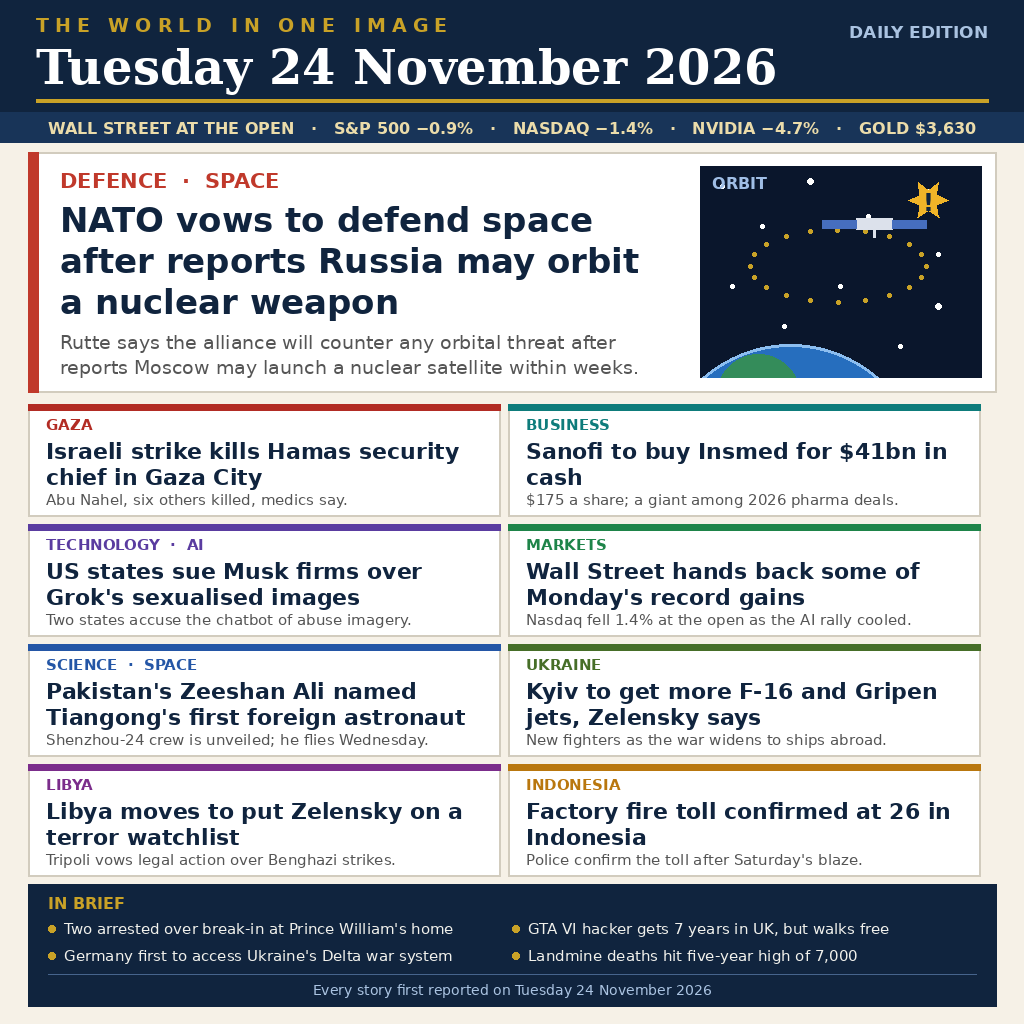
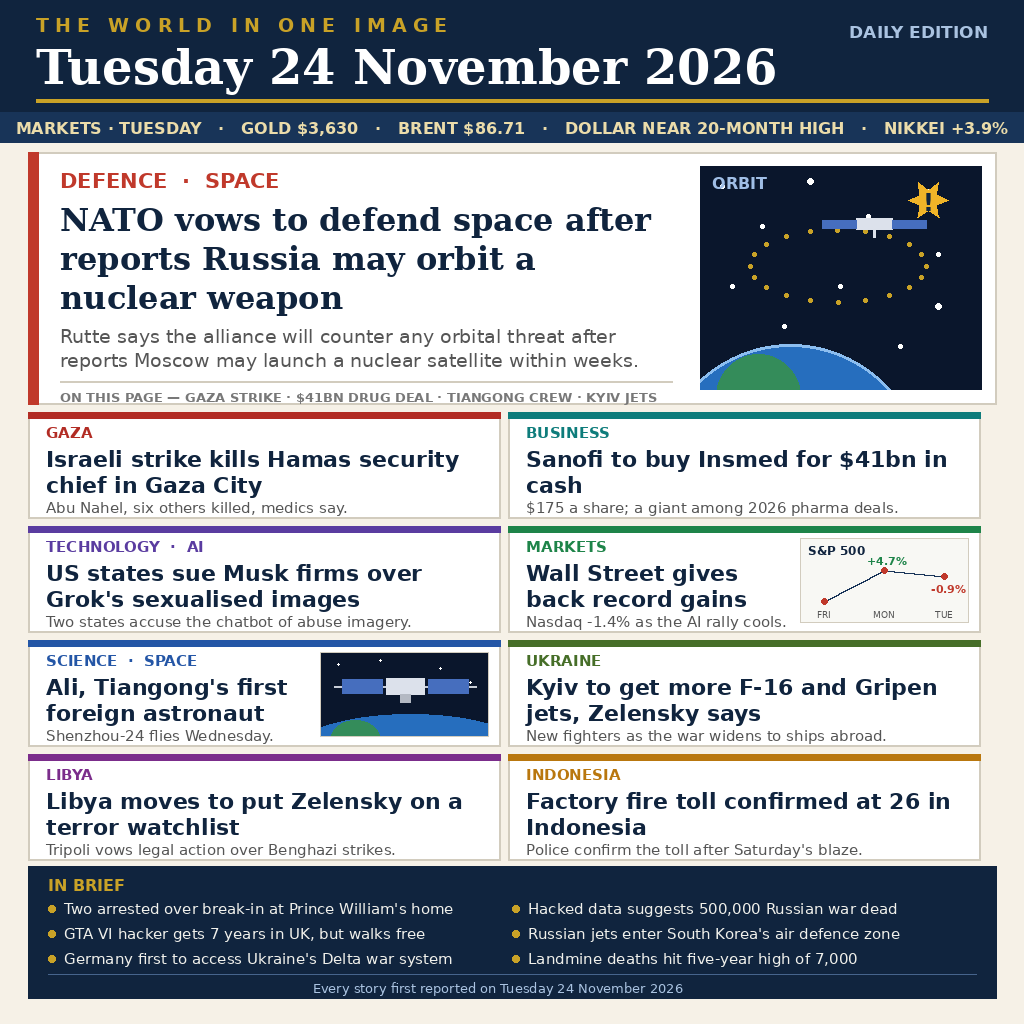
v6: final edition

diff --git a/README.md b/README.md
@@ -4,9 +4,9 @@
 [![rank](https://make.fun/badge/news-image-20261124/weifu1997/news-image-20261124/rank.svg)](https://make.fun/bounty/news-image-20261124/leaderboard?utm_source=github&utm_medium=readme&utm_campaign=news-image-20261124)
 [![reward](https://make.fun/badge/news-image-20261124/weifu1997/news-image-20261124/reward.svg)](https://make.fun/bounty/news-image-20261124?utm_source=github&utm_medium=readme&utm_campaign=news-image-20261124)
 
-A one-page newspaper front page that sums up Tuesday 24 November 2026. The second edition (v2) carries thirteen items — a lead, eight stories and four briefs — each first reported that day: NATO vows to defend space after reports Russia may orbit a nuclear weapon; an Israeli strike kills Hamas's security chief in Gaza City; Sanofi agrees to buy Insmed for $41bn; US states sue Musk's firms over Grok's sexualised images; Wall Street hands back some of Monday's record gains; Pakistan's Zeeshan Ali is named the first foreign astronaut to visit China's Tiangong station; Kyiv lines up more F-16 and Gripen jets; Libya moves to place Zelensky on a terrorism watchlist; and Indonesia's factory-fire toll is confirmed at 26 — plus briefs on the break-in at Prince William's home, the GTA VI hacker's sentence, Germany's access to Ukraine's Delta system, and landmine deaths hitting a five-year high.
+A one-page newspaper front page that sums up Tuesday 24 November 2026. The final edition carries fifteen items — a lead, eight stories and six briefs — each first reported that day: NATO vows to defend space after reports Russia may orbit a nuclear weapon; an Israeli strike kills Hamas's security chief in Gaza City; Sanofi agrees to buy Insmed for $41bn; US states sue Musk's firms over Grok's sexualised images; Wall Street gives back some of Monday's record gains (with a chart of the S&P 500's three sessions); Pakistan's Zeeshan Ali is named the first foreign astronaut to visit China's Tiangong station; Kyiv lines up more F-16 and Gripen jets; Libya moves to place Zelensky on a terrorism watchlist; and Indonesia's factory-fire toll is confirmed at 26 — plus briefs on the break-in at Prince William's home, hacked data suggesting 500,000 Russian war dead, the GTA VI hacker's sentence, Russian jets entering South Korea's air defence zone, Germany's access to Ukraine's Delta system, and landmine deaths hitting a five-year high. A markets ticker runs under the masthead.
 
-The page is drawn once, at build time, by `render2.py` (Python 3 + Pillow, run locally — it is a build tool, not part of the entry program) and shipped as `entry.png`. The entry program itself is a few lines of Node that copy the image to `/output/entry.png`, so both of the grader's runs write identical bytes (the render is deterministic: two runs, one sha256).
+The page is drawn once, at build time, by `render6.py` (Python 3 + Pillow, run locally — it is a build tool, not part of the entry program) and shipped as `entry.png`. The entry program itself is a few lines of Node that copy the image to `/output/entry.png`, so both of the grader's runs write identical bytes (the render is deterministic: two runs, one sha256).
 
 Every story on the page was checked against reports first published on 24 November 2026: several plausible-looking front-page items were left out after checking because they turned out to be 22–23 November news (the Nvidia chief executive's reinstatement, the Democrats' House result, the ICJ's Myanmar ruling, the CrowdStrike–Zscaler deal, and the Trump death-penalty directive). The first edition, submitted earlier on the day with only the morning's six stories, ranked 4,053 of 7,302 in round 1; this fuller late edition replaces it.
 
